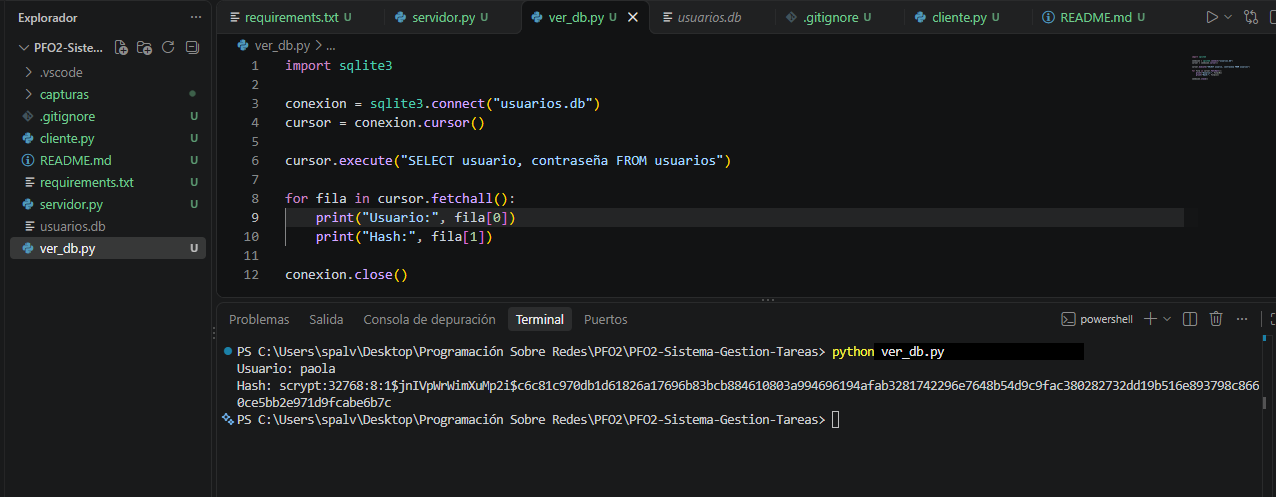
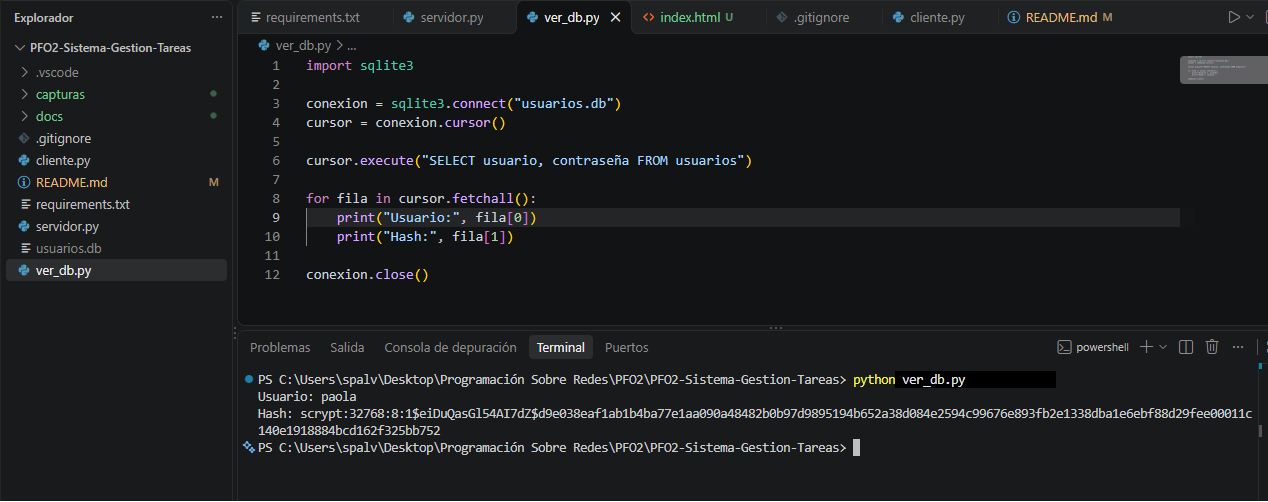
Actualizar README, capturas y agregar página de documentación

diff --git a/docs/index.html b/docs/index.html
@@ -1,0 +1,29 @@
+
+<!DOCTYPE html>
+<html lang="es">
+<head>
+    <meta charset="UTF-8">
+    <meta name="viewport" content="width=device-width, initial-scale=1.0">
+    <title>API REST de Tareas</title>
+</head>
+<body>
+    <h1>Sistema de Gestión de Tareas</h1>
+
+    <p>Proyecto desarrollado con Python, Flask y SQLite.</p>
+
+    <h2>Funcionalidades</h2>
+    <ul>
+        <li>Registro de usuarios.</li>
+        <li>Inicio de sesión.</li>
+        <li>Almacenamiento de contraseñas mediante hash.</li>
+        <li>Base de datos SQLite.</li>
+        <li>Endpoint GET /tareas.</li>
+    </ul>
+
+    <h2>Documentación</h2>
+    <p>El código fuente y las instrucciones de ejecución
+    se encuentran en el repositorio del proyecto.</p>
+
+    <a href="../README.md">Consultar el README</a>
+</body>
+</html>

diff --git a/README.md b/README.md
@@ -24,7 +24,7 @@ La aplicación cuenta con las siguientes funcionalidades:
 - Validación de campos obligatorios.
 - Prevención del registro de usuarios duplicados.
 - Inicio de sesión mediante usuario y contraseña.
-- Almacenamiento seguro de contraseñas mediante hash.
+- Almacenamiento de contraseñas mediante hash.
 - Página HTML de bienvenida accesible mediante el endpoint `/tareas`.
 - Manejo de respuestas HTTP para indicar resultados y errores.
 
@@ -81,9 +81,7 @@ Si el usuario no existe o la contraseña es incorrecta, la API devuelve el códi
 
 Devuelve una página HTML de bienvenida que permite comprobar que el servidor Flask está funcionando correctamente.
 
-**URL local:**
-
-`http://127.0.0.1:5000/tareas`
+**URL local:** http://127.0.0.1:5000/tareas
 
 **Método:** GET.
 
@@ -115,6 +113,7 @@ De esta manera, la contraseña original no se guarda en texto plano.
 
 - Tener Python instalado.
 - Contar con los archivos del proyecto.
+- Disponer de una terminal para ejecutar los comandos.
 
 ### Instalación de dependencias
 
@@ -124,19 +123,25 @@ Abrir una terminal en la carpeta del proyecto y ejecutar:
 pip install -r requirements.txt
 ```
 
-Este archivo contiene las dependencias necesarias para ejecutar el servidor Flask y el cliente de consola.
+El archivo `requirements.txt` contiene las dependencias necesarias para ejecutar la aplicación.
 
 ### Ejecución del servidor
+
+Ejecutar el siguiente comando:
 
 ```bash
 python servidor.py
 ```
 
-El servidor estará disponible en `http://127.0.0.1:5000`.
+El servidor estará disponible en:
+
+http://127.0.0.1:5000
+
+La base de datos `usuarios.db` y la tabla `usuarios` se crean automáticamente al iniciar el servidor, si todavía no existen.
 
 ### Ejecución del cliente de consola
 
-Abrir una segunda terminal y ejecutar:
+Abrir una segunda terminal, dentro de la carpeta del proyecto, y ejecutar:
 
 ```bash
 python cliente.py
@@ -158,17 +163,15 @@ Se realizaron pruebas para verificar el funcionamiento de la API:
 
 ## 8. Evidencias de ejecución
 
-En la carpeta `capturas/` se incluyen imágenes que documentan la ejecución del servidor y las pruebas realizadas.
+En la carpeta `capturas/` se incluyen imágenes que documentan el funcionamiento correcto de la aplicación.
 
-Las evidencias contemplan:
+Las evidencias corresponden a las siguientes pruebas exitosas:
 
-- Inicio del servidor Flask.
-- Registro de un usuario.
-- Registro de un usuario existente (incorrecto)
-- Inicio de sesión correcto.
-- Rechazo de credenciales incorrectas.
-- Consulta de la página HTML de bienvenida.
-- Verificación del hash almacenado en SQLite.
+- Inicio del servidor Flask (`servidor.png`).
+- Registro exitoso de un usuario (`registro.png`).
+- Inicio de sesión correcto (`login.png`).
+- Consulta de la página HTML de bienvenida (`tareas.png`).
+- Verificación del hash almacenado en SQLite (`hash_sqlite.png`).
 
 ## 9. Conclusión
 
@@ -182,7 +185,7 @@ También permitió incorporar buenas prácticas de seguridad mediante el almacen
 
 Hashear contraseñas permite almacenarlas de forma más segura, sin guardar el texto original en la base de datos. Si alguien accede a la base de datos, no encontrará directamente las contraseñas de los usuarios.
 
-En este proyecto se utiliza generate_password_hash() de Werkzeug para generar el hash y check_password_hash() para verificar las credenciales durante el inicio de sesión.
+En este proyecto se utiliza `generate_password_hash()` de Werkzeug para generar el hash y `check_password_hash()` para verificar las credenciales durante el inicio de sesión.
 
 ### ¿Cuáles son las ventajas de usar SQLite en este proyecto?
 
@@ -190,18 +193,20 @@ SQLite permite almacenar los datos de manera persistente en un archivo local, si
 
 Sus principales ventajas en este proyecto son:
 
-- Simplicidad: es fácil de configurar y utilizar desde Python.
-
-- Persistencia: los usuarios registrados permanecen almacenados después de cerrar la aplicación.
-
-- Portabilidad: la base de datos se conserva en un archivo que puede trasladarse junto con el proyecto.
-
-- Integración: Python incluye el módulo sqlite3, por lo que no es necesario instalar una biblioteca adicional para conectarse a SQLite.
+- **Simplicidad:** es fácil de configurar y utilizar desde Python.
+- **Persistencia:** los usuarios registrados permanecen almacenados después de cerrar la aplicación.
+- **Portabilidad:** la base de datos se conserva en un archivo que puede trasladarse junto con el proyecto.
+- **Integración:** Python incluye el módulo `sqlite3`, por lo que no es necesario instalar una biblioteca adicional para conectarse a SQLite.
 
 ## 11. Configuración del entorno de desarrollo
 
 Se recomienda configurar el entorno de Python en Visual Studio Code según las necesidades de cada desarrollador.
 
-La carpeta .vscode/ contiene configuraciones locales del editor y no es necesaria para ejecutar la aplicación. Por este motivo, se excluye del repositorio mediante el archivo .gitignore.
+La carpeta `.vscode/` contiene configuraciones locales del editor y no es necesaria para ejecutar la aplicación. Por este motivo, se excluye del repositorio mediante el archivo `.gitignore`.
 
 Al clonar el proyecto, cada desarrollador deberá seleccionar o configurar el intérprete de Python que utilizará en su entorno de trabajo.
+
+## 12. Enlaces del proyecto
+
+- **Repositorio en GitHub:** https://github.com/Pao-1112/PFO2-Sistema-Gestion-Tareas.git
+- **Documentación publicada en GitHub Pages:** 
